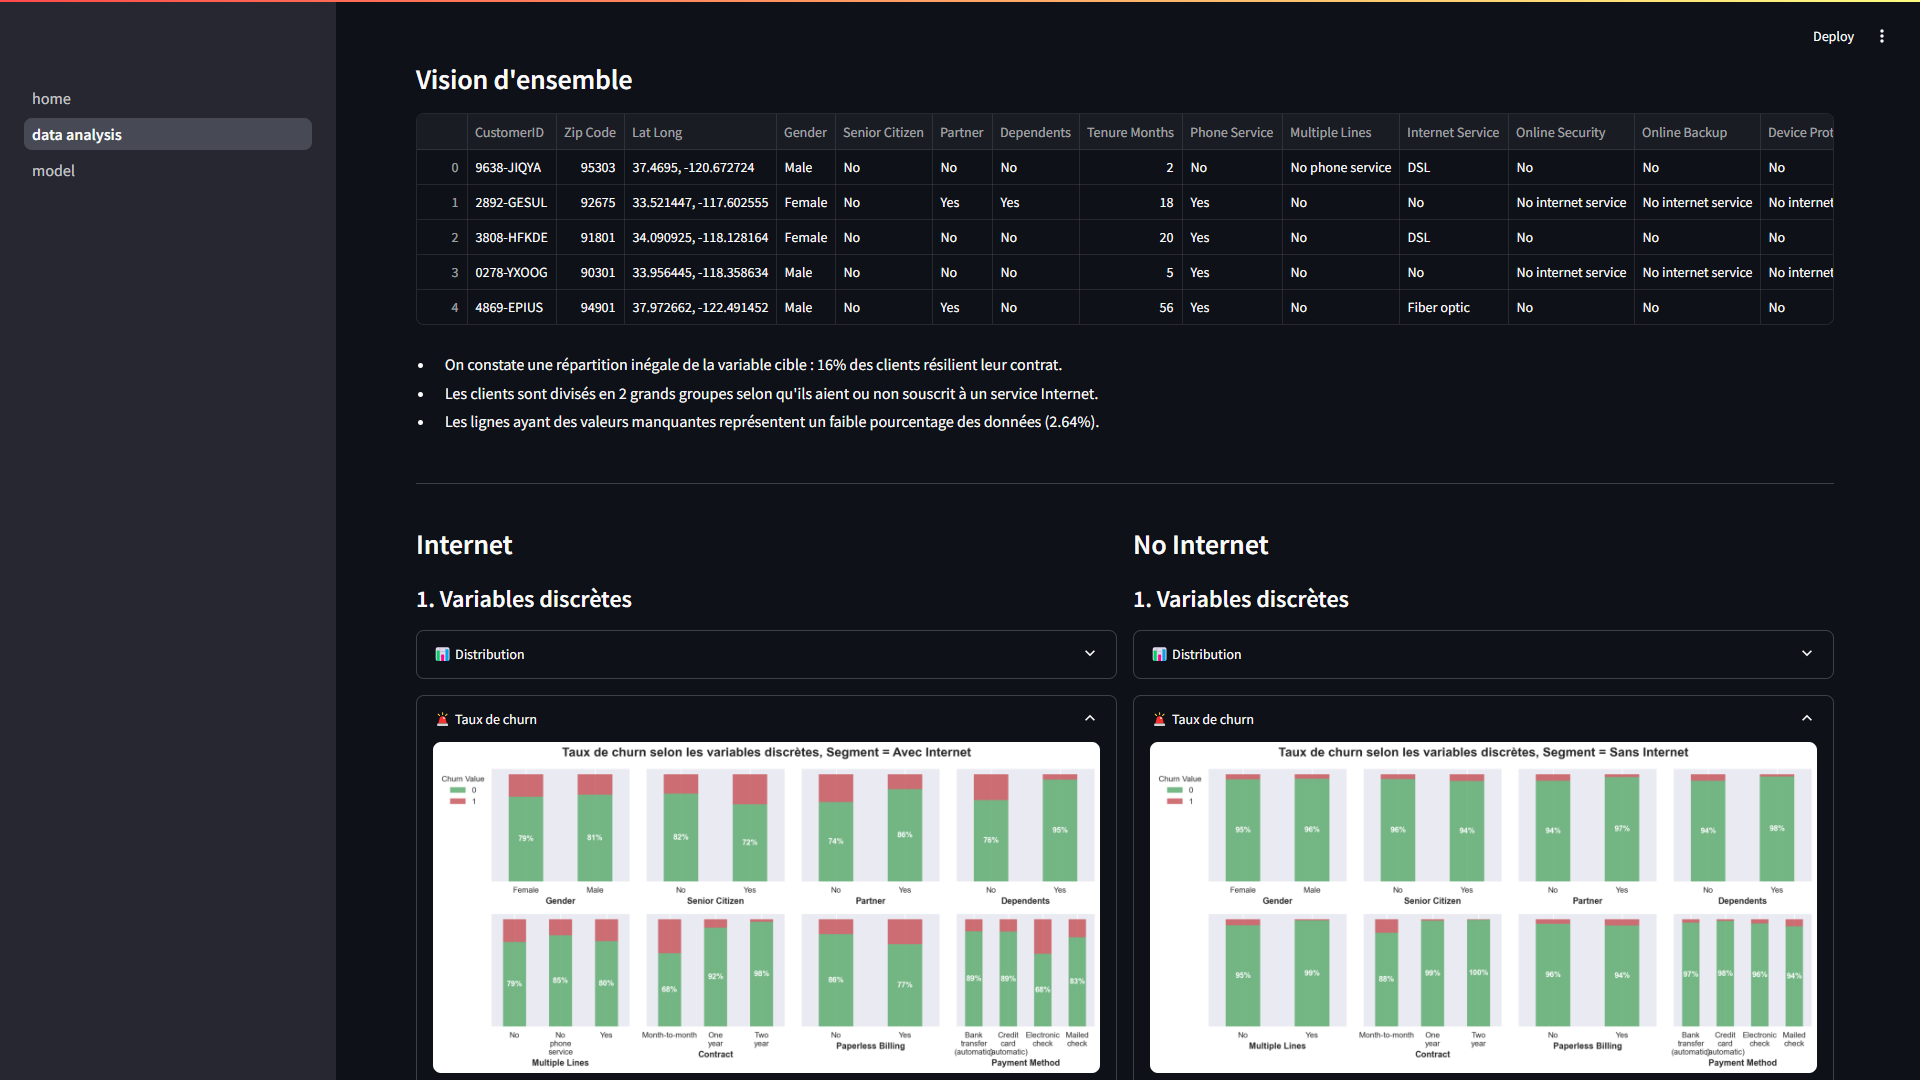
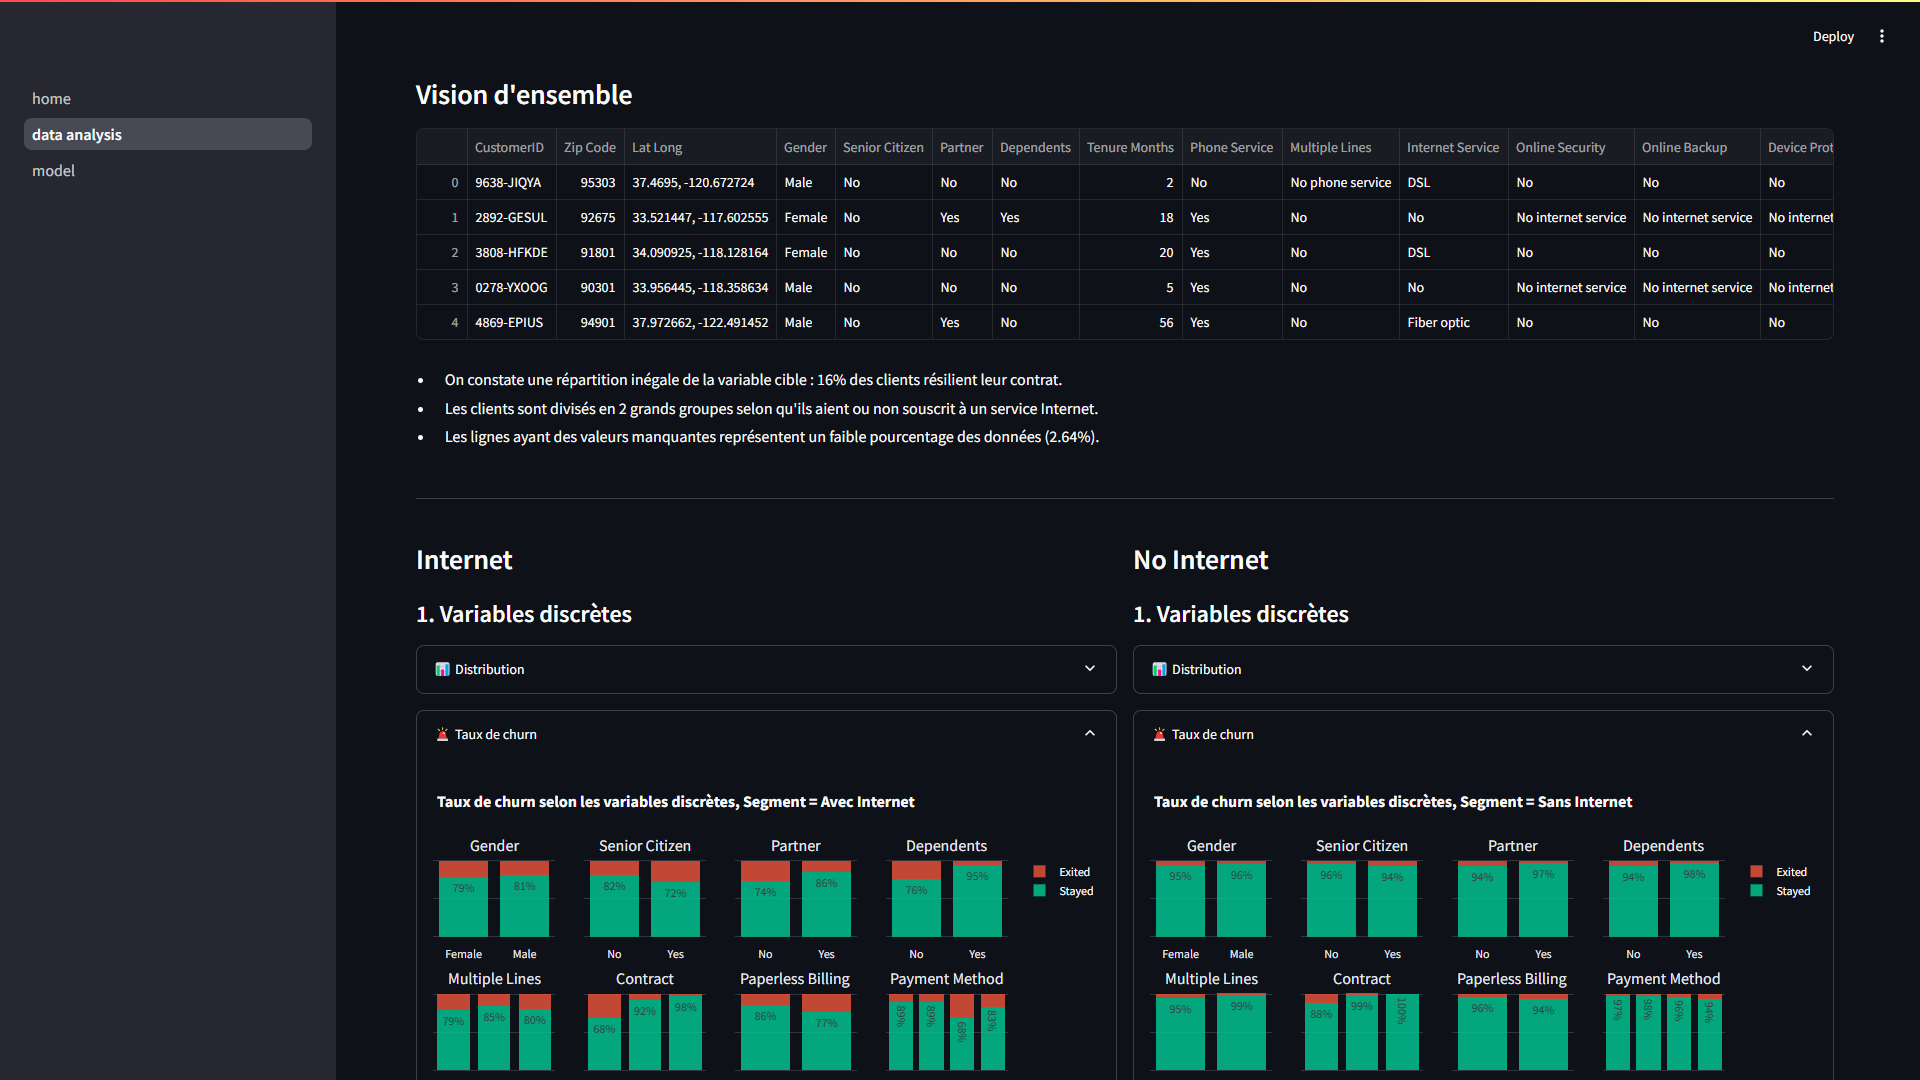
Updated UI

Changed region(s): [[0.2188, 0.4889, 0.9688, 1.0], [0.2188, 0.0611, 0.9688, 0.3056], [0.2188, 0.3361, 0.5938, 0.4278]]

diff --git a/streamlit/utils.py b/streamlit/utils.py
@@ -1,137 +1,147 @@
 import streamlit as st
-import pandas as pd
-import matplotlib.pyplot as plt
-import seaborn as sns
-
 import plotly.express as px
-import plotly.subplots as sp
-# from plotly.graph_objects import Figure
-
-plt.style.use("seaborn-v0_8")
+import plotly.graph_objects as go
+from plotly.subplots import make_subplots
 
 
-def plot_disc_variables(df, cols, n_rows=2, n_cols=8, segment="All", **kwargs):
+def plot_disc_variables(df, cols, n_rows=4, n_cols=4, segment="All", **kwargs):
     """Représente la distribution des variables discrètes."""
-    
-    _, axes = plt.subplots(n_rows, n_cols, figsize=kwargs.get("figsize", (24, 6)))
-    
-    if len(cols) > 1:
-        axes = axes.flatten()
+    fig = make_subplots(rows=n_rows, cols=n_cols, subplot_titles=cols)
     
     for i, col in enumerate(cols):
-        ax = axes[i] if len(cols) > 1 else axes
-
-        sns.countplot(data=df, x=col, order=df[col].drop_duplicates().sort_values(), ax=ax)
+        row, col_pos = divmod(i, n_cols)
+        row += 1
         
-        # Ajout des pourcentages sur les barres
-        n = df[col].count()
-        for p in ax.patches:
-            ax.text(
-                p.get_x() + p.get_width() / 2,
-                p.get_y() + p.get_height() / 2,
-                f"{p.get_height() / n:.0%}",
-                ha="center", va="center",
-                c="w", weight="bold",
-            )
-            
-            ax.set_xlabel(col, weight="bold")
-            ax.set_xticks(ax.get_xticks())
-            
-            xticklabels = ["\n".join(label.get_text().split()) for label in ax.get_xticklabels()]
-            ax.set_xticklabels(xticklabels, rotation=0)
-            
-            ax.set_yticks([])
-            ax.set_ylabel("")
-
-    title = kwargs.get("fig_title", f"Distribution des variables discrètes, Segment = {segment}")
-    size = kwargs.get("fig_title_font_size", 16)
+        value_counts = df[col].value_counts(normalize=True).sort_index()
+        
+        bar_trace = go.Bar(
+            x=value_counts.index,
+            y=value_counts.values, 
+            text=[f"{v:.0%}" for v in value_counts.values], 
+            marker_color=px.colors.qualitative.Plotly[0],
+            opacity=0.8,
+        )
+        
+        fig.add_trace(bar_trace, row=row, col=col_pos + 1)
     
-    plt.suptitle(title, size=size, weight="bold")
-    plt.tight_layout()
+    fig.update_layout(
+        height=kwargs.get("height", 800), 
+        width=kwargs.get("width", 1200), 
+        title_text=kwargs.get("fig_title", f"Distribution des variables discrètes, Segment = {segment}"),
+        showlegend=False,
+    )
     
-    st.pyplot(plt)
+    fig.update_yaxes(showticklabels=False)
+    
+    st.plotly_chart(fig)
 
 
-def plot_disc_vs_target(df, cols, n_rows=1, n_cols=8, segment="All", target="Churn Value", **kwargs):
+def plot_disc_vs_target(df, cols, n_rows=2, n_cols=4, segment="All", target="Churn Value", **kwargs):
     """Représente le taux de churn selon les différentes modalités des variables discrètes."""
     
-    _, axes = plt.subplots(n_rows, n_cols, figsize=kwargs.get("figsize", (28, 4)))
+    fig = make_subplots(rows=n_rows, cols=n_cols, subplot_titles=kwargs.get("subplot_titles", cols))
     
-    if len(cols) > 1:
-        axes = axes.flatten()
-        
+    colors = px.colors.qualitative.Plotly[1:3][::-1]
+    
     for i, col in enumerate(cols):
-        prop_df = pd.crosstab(df[col], df[target])
-        prop_df = prop_df.div(prop_df.sum(axis=1), axis=0)
+        row, col_pos = divmod(i, n_cols)
+        row += 1
         
-        ax = axes[i] if len(cols) > 1 else axes
+        prop_df = df.groupby([col, target]).size().div(df.groupby(col).size() / 100).reset_index(name="Percentage").round()
         
-        # Couleurs des classes 0 (vert) et 1 (rouge)
-        colors_01 = kwargs.get("colors_01", sns.color_palette()[1:3])
-        
-        bar = prop_df.plot(kind="bar", stacked=True, legend=False, color=colors_01, alpha=0.8, ax=ax)
-        
-        # Ajout des pourcentages sur les barres
-        for i, p in enumerate(bar.patches):
-            if i < len(bar.patches) / 2:
-                bar.text(
-                    p.get_x() + p.get_width() / 2,
-                    p.get_y() + p.get_height() / 2,
-                    f"{p.get_height():.0%}",
-                    ha="center", va="center",
-                    c="w", weight="bold",
-                )
-                
-        bar.set_xlabel(col, weight="bold")
-        bar.set_xticks(bar.get_xticks())
-        
-        xticklabels = ["\n".join(label.get_text().split()) for label in ax.get_xticklabels()]
-        bar.set_xticklabels(xticklabels, rotation=0)
-        
-        bar.set_yticks([])
-        bar.set_ylabel("")
-
-    ax = axes[0] if len(cols) > 1 else axes
-    ax.legend(title=target, bbox_to_anchor=(0, 1))
+        for j in [0, 1]:
+            sub_prop_df = prop_df[prop_df[target] == j]
+                        
+            bar_trace = go.Bar(
+                x=["<br>".join(val.split()) for val in sub_prop_df[col]] if kwargs.get("br_xtickslabels") else sub_prop_df[col],
+                y=sub_prop_df["Percentage"],
+                marker_color=colors[j],
+                name="Stayed" if (j == 0) else "Exited",
+                text=sub_prop_df['Percentage'].astype(str).str.split(".").str[0] + "%" if j==0 else "",
+                showlegend=(i == 0),
+                opacity=0.8,
+            )
+            
+            fig.add_trace(bar_trace, row=row, col=col_pos + 1)
     
-    size = kwargs.get("fig_title_font_size", 16)
+    fig.update_layout(
+        height=kwargs.get("height", 400), 
+        width=kwargs.get("width", 1200), 
+        title_text=kwargs.get("fig_title", f"Taux de churn selon les variables discrètes, Segment = {segment}"),
+        barmode="stack",
+    )
     
-    plt.suptitle(f"Taux de churn selon les variables discrètes, Segment = {segment}", size=size, weight="bold")
-    plt.tight_layout()
+    fig.update_yaxes(showticklabels=False)
     
-    st.pyplot(plt)
+    st.plotly_chart(fig)
 
 
 def plot_cont_vs_cont(df, cols, segment="All", target="Churn Value", **kwargs):
     """Représente les relations entre plusieurs variables continues."""
     
-    # Couleurs des classes 0 (vert) et 1 (rouge)
-    colors_01 = kwargs.get("colors_01", sns.color_palette()[1:3])
-    
-    g = sns.PairGrid(df, hue=target, vars=cols, palette=colors_01, corner=True, diag_sharey=False)
-    g.map_diag(sns.histplot, bins=100)
-    g.map_lower(sns.scatterplot, s=10, alpha=0.8)
-    g.add_legend(bbox_to_anchor=(0.92, 0.95))
-    
-    plt.suptitle(f"Relations entre les variables continues, Segment = {segment}", y=1.01, size=14, weight="bold")
-    
-    st.pyplot(plt)
+    colors = {val: color for val, color in zip([1, 0], px.colors.qualitative.Plotly[1:3])}
 
+    fig = go.Figure(
+        data=go.Splom(
+            dimensions=[{"label": col, "values": df[col].tolist()} for col in df[cols].columns],
+            marker=dict(
+                color=df[target].map(colors),
+                size=2,
+            ),
+            opacity=0.8,
+            diagonal_visible=False,
+            showupperhalf=False,
+            showlegend=False,
+        )
+    )
+
+    fig.update_layout(
+        title=dict(
+            text=f"Relations entre les variables continues, Segment = {segment}",
+        ),
+        height=kwargs.get("height", 600),
+        width=kwargs.get("width", 600),
+    )
+
+    # Ajouter un plot vide pour avoir la légende
+    for val, color in colors.items():
+        print(val, color)
+        fig.add_trace(go.Scatter(
+            x=[None], y=[None],
+            mode="markers",
+            marker=dict(
+                color=color,
+            ),
+            name="Stayed" if (val == 0) else "Exited",
+        ))
     
+    st.plotly_chart(fig)
+
+
 def plot_cont_vs_target(df, cols, target_value, segment="All", target="Churn Value", **kwargs):
     """Représente la distribution des variables continues selon une valeur fixée de la variable cible."""
     
-    _, axes = plt.subplots(1, len(cols), figsize=kwargs.get("figsize", (18, 3)))
-
-    # Couleurs des classes 0 (vert : green) et 1 (rouge : reg)
-    color_g, color_r = kwargs.get("colors_01", sns.color_palette()[1:3])
-    color = color_g if (target_value == 0) else color_r
+    color_id = 1 if target_value == 1 else 2
+    color = px.colors.qualitative.Plotly[color_id]
+    
+    fig = make_subplots(rows=1, cols=len(cols), subplot_titles=["<br>".join(col.split()) for col in cols])
     
     for i, col in enumerate(cols):
-        axes[i].hist(df.loc[df[target] == target_value, col], bins=100, color=color, alpha=0.8, label=target_value)
-        axes[i].set_title(col)
-
-    plt.suptitle(f"Distribution des variables continues\nSegment = {segment}, Churn Value = {target_value}", y=0.95, size=12, weight="bold")
-    plt.tight_layout()
+        fig.add_trace(
+            go.Histogram(
+                x=df.loc[df[target] == target_value, col],
+                nbinsx=100,
+                marker_color=color,
+                opacity=0.8,
+            ),
+            row=1, col=i+1
+        )
     
-    st.pyplot(plt)
+    fig.update_layout(
+        title_text=f"Distribution des variables continues, Segment = {segment}, Churn Value = {target_value}",
+        showlegend=False,
+        height=kwargs.get("height", 300),
+        width=kwargs.get("width", 1200),
+    )
+    
+    st.plotly_chart(fig)

diff --git a/streamlit/pages/1_data_analysis.py b/streamlit/pages/1_data_analysis.py
@@ -6,6 +6,7 @@ from utils import (
     plot_cont_vs_target,
 )
 
+
 st.set_page_config(page_title="Analyse des données", layout="wide")
 
 st.title("Analyse des données")
@@ -23,6 +24,7 @@ st.write("- Les uns et les autres pourront donc avoir de meilleures pistes pour 
 
 # Séparation
 st.divider()
+
 
 
 
@@ -79,15 +81,15 @@ with internet:
 
     # Distribution
     with st.expander("📊 Distribution"):
-        plot_disc_variables(df=df_internet, cols=disc, n_rows=4, n_cols=4, segment=segment, figsize=(12, 8))
+        plot_disc_variables(df=df_internet, cols=disc, segment=segment)
 
     # Taux de churn
     with st.expander("🚨 Taux de churn"):
-        plot_disc_vs_target(df=df_internet, cols=disc_no_internet, n_cols=4, n_rows=2, segment=segment, figsize=(12, 6))
+        plot_disc_vs_target(df=df_internet, cols=disc_no_internet, segment=segment)
     
     # Taux de churn (services Internet)
     with st.expander("🛜 Taux de churn (services Internet)"):        
-        plot_disc_vs_target(df=df_internet, cols=internet_services, n_cols=6, n_rows=1, segment=segment, figsize=(12, 3))
+        plot_disc_vs_target(df=df_internet, cols=internet_services, n_rows=1, n_cols=6, segment=segment, height=300, width=1200, fig_title=f"Taux de churn selon les services Internet, Segment = {segment}", subplot_titles=["<br>".join(col.split()) for col in internet_services])
         
     # Séparation
     st.divider()
@@ -119,15 +121,15 @@ with no_internet:
 
     # Distribution
     with st.expander("📊 Distribution"):
-        plot_disc_variables(df=df_no_internet, cols=disc_no_internet, n_rows=2, n_cols=4, segment=segment, figsize=(12, 8))
+        plot_disc_variables(df=df_no_internet, cols=disc_no_internet, n_rows=2, n_cols=4, segment=segment)
 
     # Taux de churn
     with st.expander("🚨 Taux de churn"):
-        plot_disc_vs_target(df=df_no_internet, cols=disc_no_internet, n_cols=4, n_rows=2, segment=segment, figsize=(12, 6))
+        plot_disc_vs_target(df=df_no_internet, cols=disc_no_internet, segment=segment)
     
     # Taux de churn (services Internet)
     with st.expander("🛜 Taux de churn (services Internet) : Impertinent, juste pour la symétrie"):
-        plot_disc_vs_target(df=df_no_internet, cols=internet_services, n_cols=6, n_rows=1, segment=segment, figsize=(12, 3))
+        plot_disc_vs_target(df=df_no_internet, cols=internet_services, n_rows=1, n_cols=6, segment=segment, height=300, width=1200, fig_title=f"Taux de churn selon les services Internet, Segment = {segment}", subplot_titles=["<br>".join(col.split()) for col in internet_services], br_xtickslabels=True)
 
     # Séparation
     st.divider()
